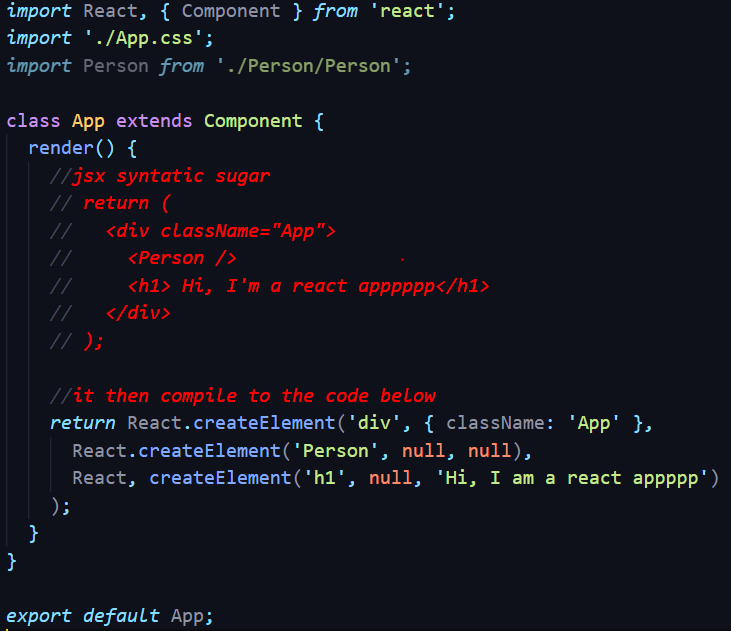
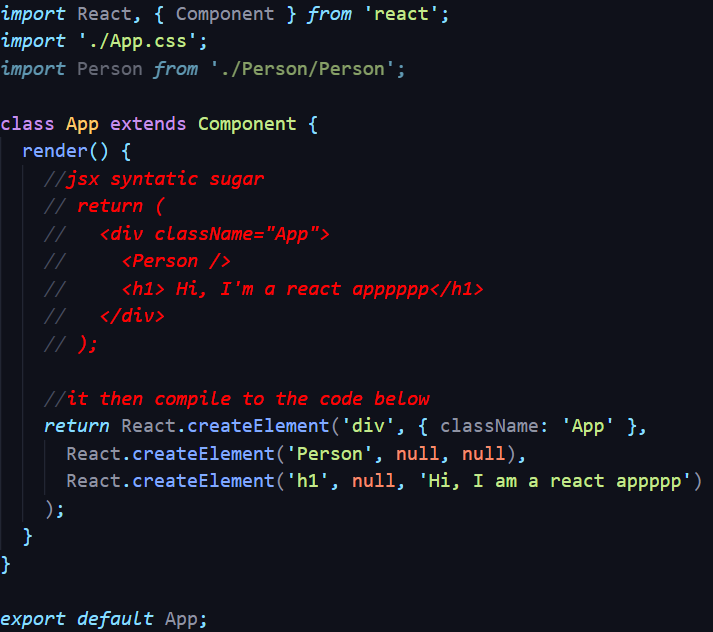
jsx type update

diff --git a/src/App.js b/src/App.js
@@ -15,7 +15,7 @@ class App extends Component {
     //it then compile to the code below
     return React.createElement('div', { className: 'App' },
       React.createElement('Person', null, null),
-      React, createElement('h1', null, 'Hi, I am a react appppp')
+      React.createElement('h1', null, 'Hi, I am a react appppp')
     );
   }
 }
